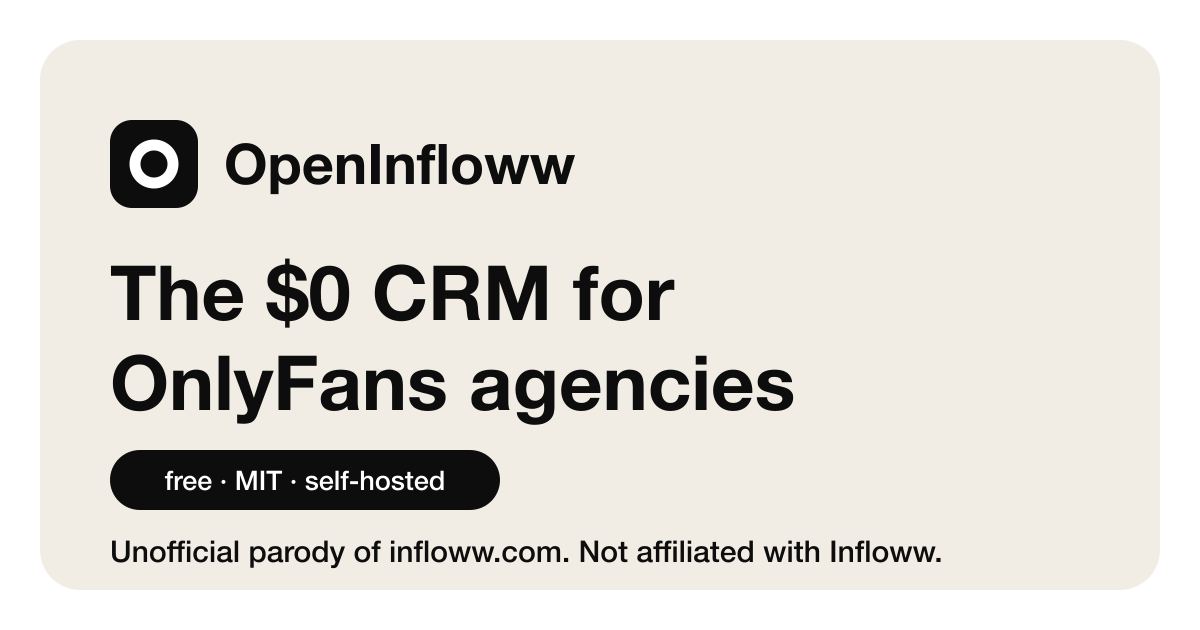
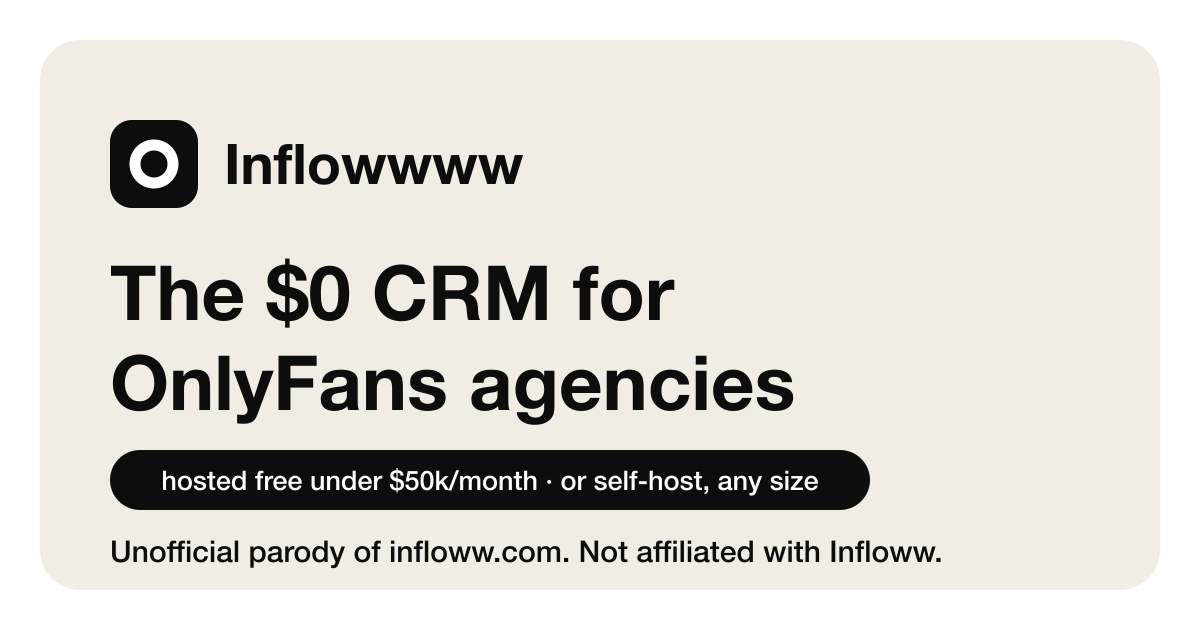
Landing: hosted free under $50k/mo or self-host; contact for bigger

Changed region(s): [[0.1233, 0.6937, 0.74, 0.8143], [0.185, 0.2111, 0.4933, 0.3016]]

diff --git a/web/README.md b/web/README.md
@@ -21,7 +21,8 @@ web/
   public/              copied to the site root as-is (favicon, touch icon, og.png, img/)
   src/
     _data/site.json    name, url, repo (the one GitHub URL), captureDate (the one capture date), the Infloww URL,
-                       appUrl (your running Inflowwww app; the header and hero Log in / Register links point at it)
+                       appUrl (your running Inflowwww app; the header and hero Log in / Register links point at it),
+                       setupContact (where agencies over $50k a month ask for setup help; /contact/#over-50k links it)
     _data/buckets.json the nine blog buckets: tag, label, blurb, startHere (three slugs shown first on /blog/ and the tag page)
     _includes/         base.njk (head, header, footer), page, post, case-study, partials
     main.css           Tailwind entry and the theme (light, black on white, cream panels)
